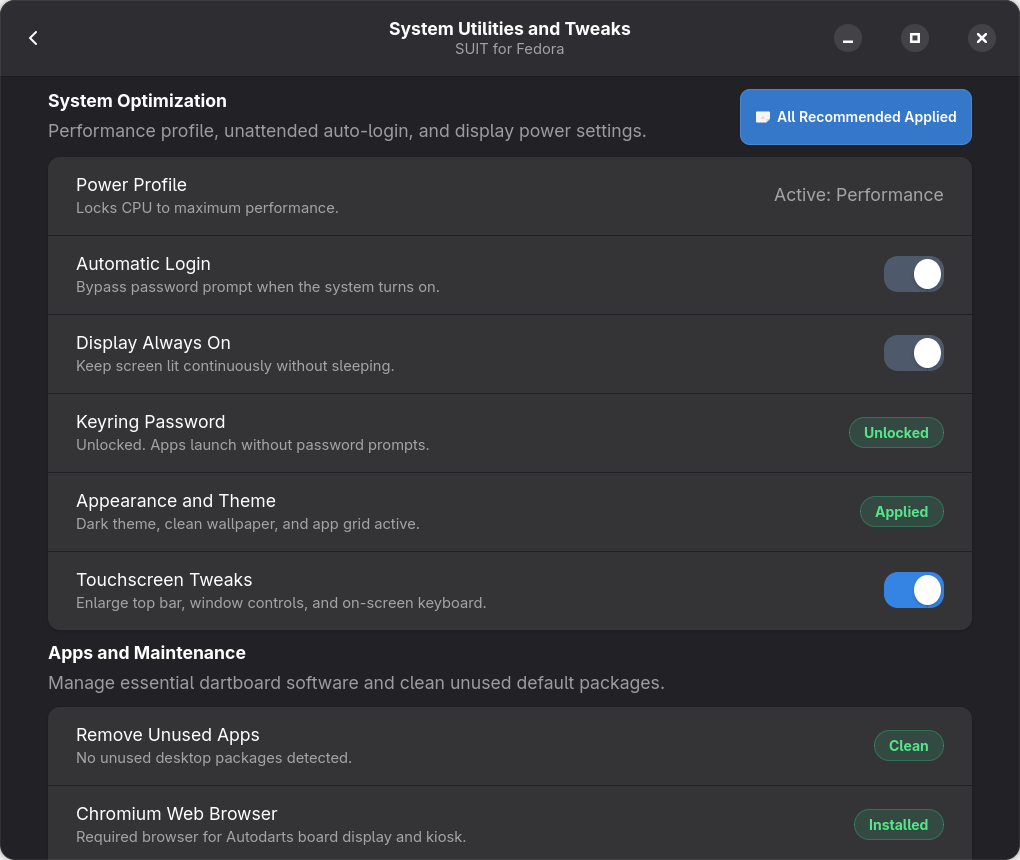
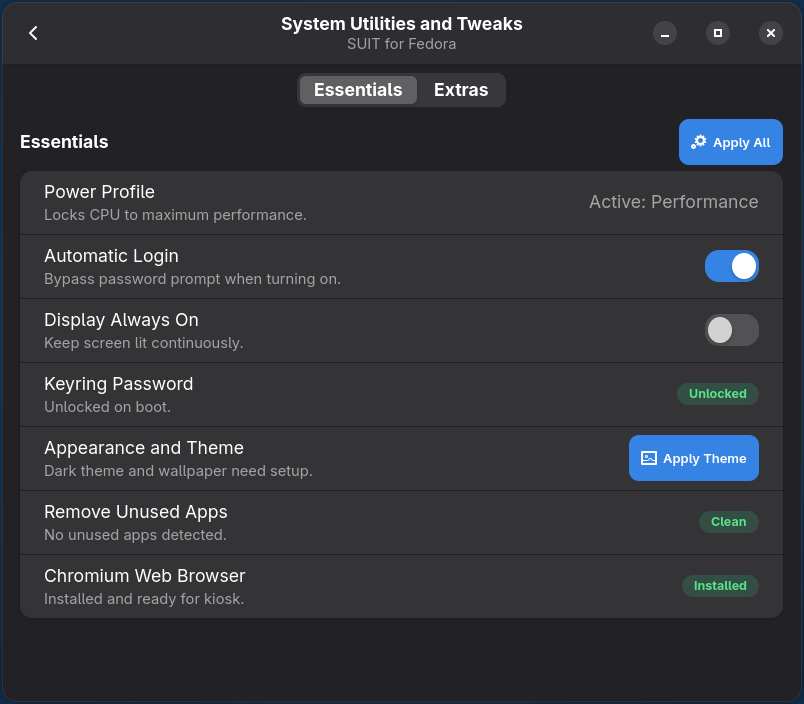
docs: refresh screenshots and README for the new UI
Retake main, System (Essentials tab), Screen & Touch and Kiosk screenshots
and describe the Essentials/Extras split.

diff --git a/README.md b/README.md
@@ -48,14 +48,14 @@ Modern Libadwaita touch menu providing rapid access to all system tools and live
   <img src="docs/assets/screenshots/01-main-dashboard.png" alt="SUIT Main Dashboard" width="700">
 </div>
 
-* Large 48px+ touch targets optimized for touchscreens.
+* Large 44px+ touch targets optimized for touchscreens.
 * Quick access to community resources, Discord, and 3D print models.
 * Integrated one-click update checker.
 
 ---
 
 ### 2. System Utilities & Touchscreen Tweaks
-One-click performance, display, and desktop optimizations for dartboard machines.
+One-click performance, display, and desktop optimizations for dartboard machines. The **Essentials** tab holds everything *Apply All* sets up; the **Extras** tab has the optional tweaks (touchscreen tweaks, Fast Boot, hardware overlay, advanced tools).
 
 <div align="center">
   <img src="docs/assets/screenshots/02-system-tweaks.png" alt="System Utilities and Touchscreen Tweaks" width="700">
@@ -130,7 +130,7 @@ Wayland display orientation and touch coordinate matrix calibration.
 Run Autodarts as a dedicated full-screen appliance with customized browser controls.
 
 <div align="center">
-  <img src="docs/assets/screenshots/06-kiosk-controls.png" alt="Fullscreen Kiosk Mode with In-Page Controls" width="420">
+  <img src="docs/assets/screenshots/06-kiosk-controls.png" alt="Fullscreen Kiosk Mode with In-Page Controls" width="560">
 </div>
 
 * Boots Chromium directly into fullscreen mode without desktop distractions.
